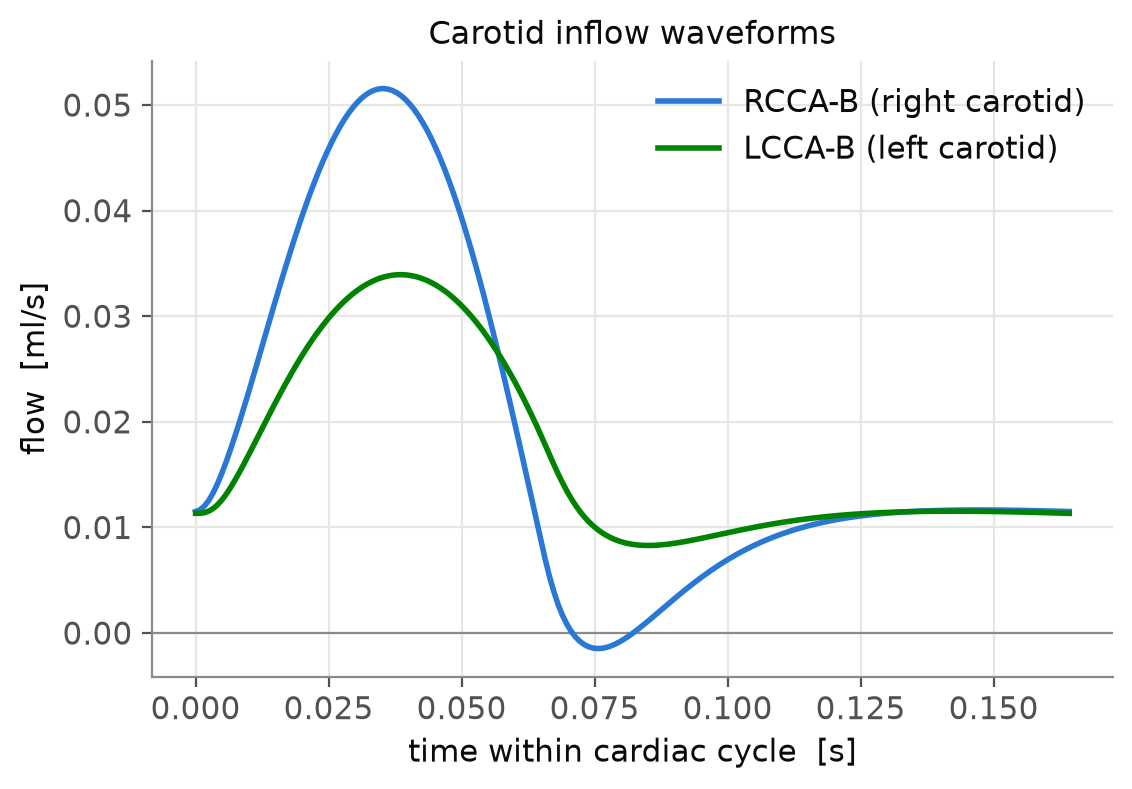
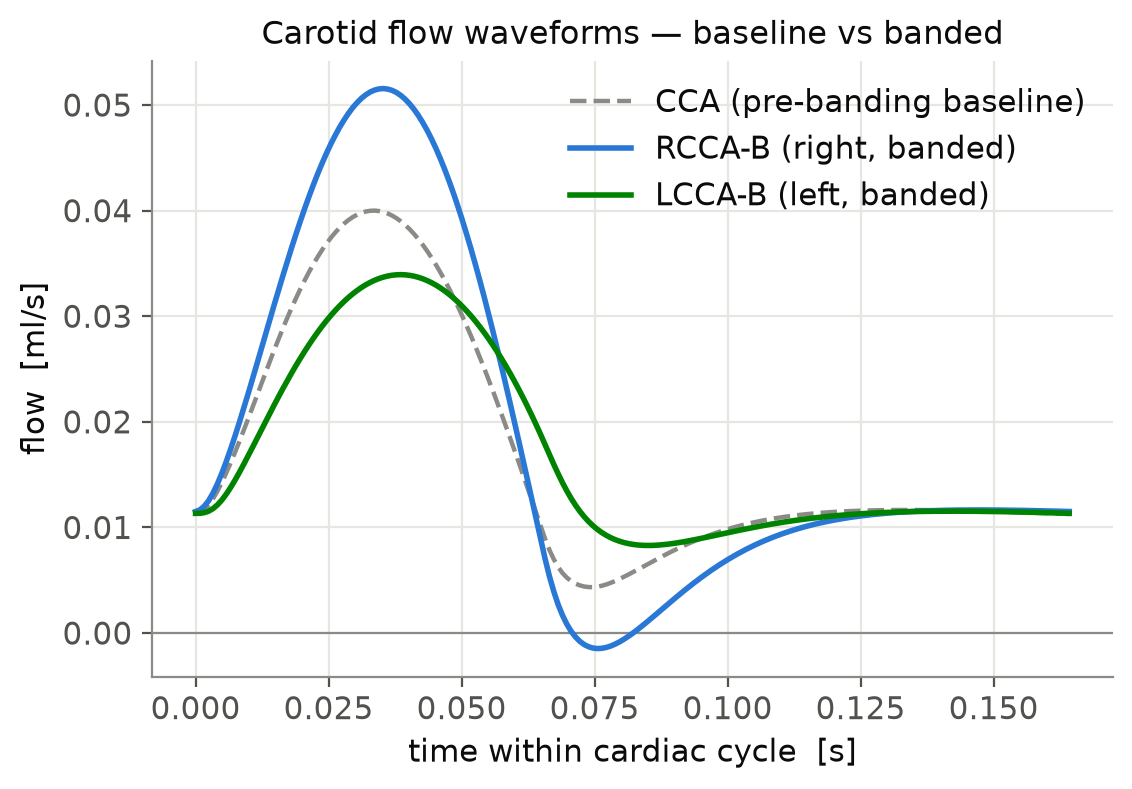
Improve figures: fig7 y-axis from 0, CCA baseline in fig2, add flow comparison
- fig7 (pressure comparison): y-axis starts at 0 with a shared scale across all
  three panels, so pulse amplitudes are directly comparable.
- fig2 (carotid flow): add the CCA pre-banding baseline (dashed) alongside the
  banded RCCA-B / LCCA-B.
- fig8 (new): three-state carotid FLOW comparison (pre-banding / acute / chronic),
  the flow counterpart to fig7's pressure.
- Model-card figure list updated.

diff --git a/examples/make_figures.py b/examples/make_figures.py
@@ -80,11 +80,14 @@ fig.savefig(f"{OUT}/fig1_pressure_waveforms.png"); plt.close(fig)
 # =====================================================================
 fig, ax = plt.subplots(figsize=(6.2, 4.0))
 ax.axhline(0, color=MUTED, lw=0.8)
-ax.plot(a.time - t0, a.flow_in, color=BLUE, lw=LW, label="RCCA-B (right carotid)")
-ax.plot(b.time - t0, b.flow_in, color=GREEN, lw=LW, label="LCCA-B (left carotid)")
+# CCA baseline (pre-banding carotid, both sides identical) as a dashed reference
+cca = last_cycle(df_pre, "rcca_b"); tc = cca.time.min()
+ax.plot(cca.time - tc, cca.flow_in, color=MUTED, lw=1.6, ls="--", label="CCA (pre-banding baseline)")
+ax.plot(a.time - t0, a.flow_in, color=BLUE, lw=LW, label="RCCA-B (right, banded)")
+ax.plot(b.time - t0, b.flow_in, color=GREEN, lw=LW, label="LCCA-B (left, banded)")
 ax.set_xlabel("time within cardiac cycle  [s]")
 ax.set_ylabel("flow  [ml/s]")
-ax.set_title("Carotid inflow waveforms", fontsize=11.5, color=INK)
+ax.set_title("Carotid flow waveforms — baseline vs banded", fontsize=11.5, color=INK)
 ax.legend(loc="upper right")
 fig.savefig(f"{OUT}/fig2_carotid_flow_waveforms.png"); plt.close(fig)
 
@@ -189,21 +192,44 @@ states = [("Pre-banding (healthy)", df_pre),
           ("Acute (post-band)", df_acu),
           ("Chronic (remodeled)", df)]
 fig, axes = plt.subplots(1, 3, figsize=(12.6, 4.6), sharey=True, constrained_layout=True)
+ymax = 0.0
 for ax, (title, d) in zip(axes, states):
     aa = d[d.name == "rcca_b"].sort_values("time"); bb = d[d.name == "lcca_b"].sort_values("time")
     tt = aa.time.min()
     ax.plot(aa.time - tt, aa.pressure_in, color=BLUE, lw=LW, label="RCCA(-B) upstream")
     ax.plot(bb.time - tt, bb.pressure_in, color=GREEN, lw=LW, label="LCCA(-B) downstream")
+    ymax = max(ymax, aa.pressure_in.max(), bb.pressure_in.max())
     ppa = aa.pressure_in.max() - aa.pressure_in.min()
     ppb = bb.pressure_in.max() - bb.pressure_in.min()
     pir = PI_df(d, "rcca_b"); pil = PI_df(d, "lcca_b")
     ax.set_title(f"{title}\nPP {ppa:.0f}/{ppb:.0f} mmHg  ·  PI {pir:.1f}/{pil:.1f}", fontsize=10.5, color=INK)
     ax.set_xlabel("time in cycle  [s]")
+# shared y-axis starting at 0 so pulse amplitudes are comparable across panels
+axes[0].set_ylim(0, ymax * 1.05)
 axes[0].set_ylabel("pressure  [mmHg]")
 axes[0].legend(loc="upper right", fontsize=9)
 fig.suptitle("Carotid pressure: healthy → banded → remodeled  (band creates the split immediately; remodeling barely changes it)",
              fontsize=12, color=INK)
 fig.savefig(f"{OUT}/fig7_state_comparison.png"); plt.close(fig)
+
+# =====================================================================
+# FIG 8 — Three-state comparison: carotid FLOW waveforms
+# =====================================================================
+fig, axes = plt.subplots(1, 3, figsize=(12.6, 4.6), sharey=True, constrained_layout=True)
+for ax, (title, d) in zip(axes, states):
+    aa = d[d.name == "rcca_b"].sort_values("time"); bb = d[d.name == "lcca_b"].sort_values("time")
+    tt = aa.time.min()
+    ax.axhline(0, color=MUTED, lw=0.8)
+    ax.plot(aa.time - tt, aa.flow_in, color=BLUE, lw=LW, label="RCCA(-B) upstream")
+    ax.plot(bb.time - tt, bb.flow_in, color=GREEN, lw=LW, label="LCCA(-B) downstream")
+    pir = PI_df(d, "rcca_b"); pil = PI_df(d, "lcca_b")
+    ax.set_title(f"{title}\nflow-PI {pir:.1f} / {pil:.1f}", fontsize=10.5, color=INK)
+    ax.set_xlabel("time in cycle  [s]")
+axes[0].set_ylabel("carotid flow  [ml/s]")
+axes[0].legend(loc="upper right", fontsize=9)
+fig.suptitle("Carotid flow: healthy → banded → remodeled  (upstream RCCA gains a sharper peak + diastolic dip; downstream LCCA is damped)",
+             fontsize=12, color=INK)
+fig.savefig(f"{OUT}/fig8_flow_state_comparison.png"); plt.close(fig)
 
 print("PI model:", {k: round(v,2) for k,v in model.items()})
 print("pre-banding PI (symmetric):", round(pi_pre, 2))

diff --git a/examples/eberth_aortic_band_model.md b/examples/eberth_aortic_band_model.md
@@ -182,12 +182,13 @@ uv run python examples/make_figures.py
 | File | What it shows |
 |------|---------------|
 | `figures/fig1_pressure_waveforms.png` | Pressure over one cycle at RCCA-B (upstream) vs LCCA-B (downstream) — the pulse is damped downstream at the same mean. |
-| `figures/fig2_carotid_flow_waveforms.png` | Right vs left carotid flow waveforms (the quantity behind the paper's PI). |
+| `figures/fig2_carotid_flow_waveforms.png` | Carotid flow waveforms — CCA (pre-banding baseline, dashed) vs banded RCCA-B / LCCA-B (the quantity behind the paper's PI). |
 | `figures/fig3_band_deltaP_Q.png` | Nonlinear band characteristic ΔP_band vs Q — quadratic Young–Tsai curve with the inertance (`L`) hysteresis loop. |
 | `figures/fig4_PI_validation.png` | Pulsatility index by location, model vs Eberth Table 1 targets. |
 | `figures/fig5_pressure_envelope.png` | Systolic/diastolic/mean pressure along the aortic path — pulse pressure collapses across the band, MAP stays ~flat. |
 | `figures/fig6_severity_sweep.png` | Sensitivity: PI upstream vs downstream as band severity (`stenosis_coefficient`) is swept. |
-| `figures/fig7_state_comparison.png` | Three-state comparison (pre-banding → acute → chronic): carotid pressure is symmetric before banding, splits immediately on banding, and barely changes with remodeling. |
+| `figures/fig7_state_comparison.png` | Three-state comparison (pre-banding → acute → chronic): carotid **pressure** is symmetric before banding, splits immediately on banding, and barely changes with remodeling. |
+| `figures/fig8_flow_state_comparison.png` | Same three-state comparison for carotid **flow**: symmetric pre-banding, then upstream RCCA gains a sharper peak + diastolic dip while downstream LCCA is damped. |
 
 ![Pressure waveforms](./figures/fig1_pressure_waveforms.png)
 ![Band characteristic](./figures/fig3_band_deltaP_Q.png)
